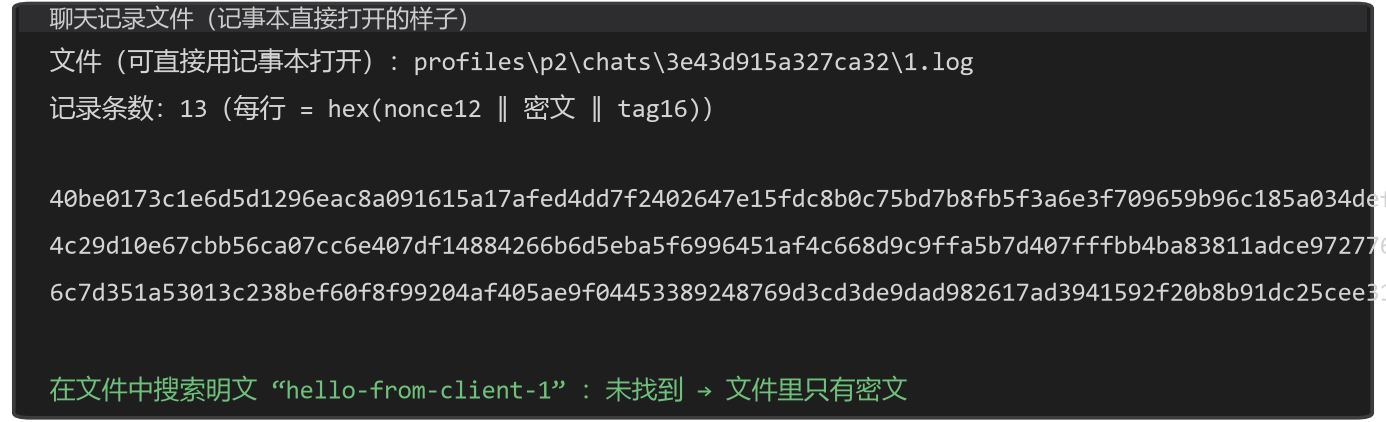
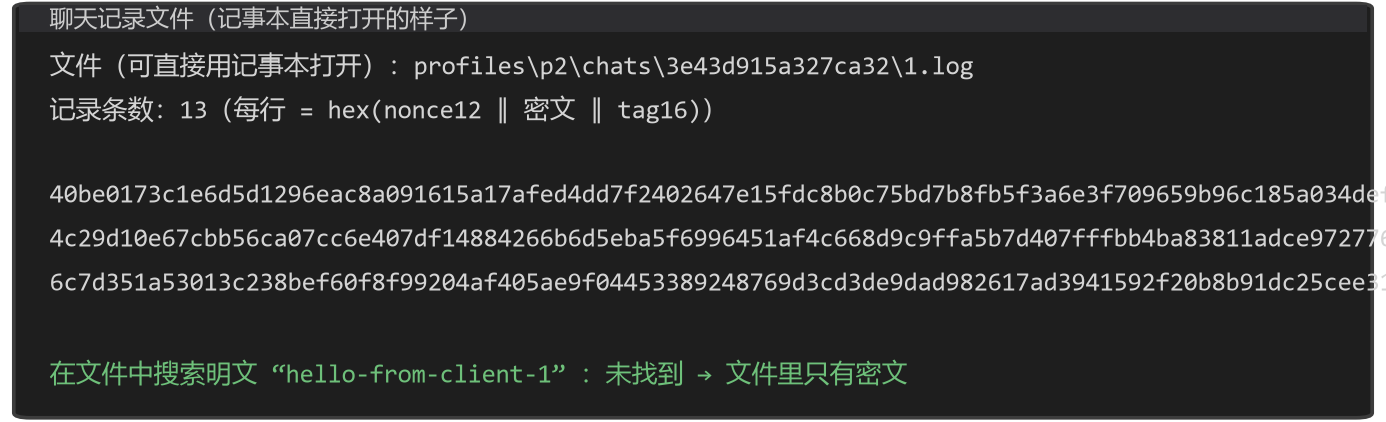
fig: 终端配图末行被裁切

diff --git a/Tools/make_figures.py b/Tools/make_figures.py
@@ -652,7 +652,7 @@ def text_figure(path, name, title, max_lines=None, fs=7.6, w=6.3):
     ax.add_patch(plt.Rectangle((1, 92.5), 98, 6.5, fc="#2d2d30", ec="none", zorder=2))
     ax.text(3.2, 95.7, title, fontsize=8.0, color="#cccccc", va="center", zorder=3,
             family=[CJK, MONO])
-    step = 89.5 / max(len(lines), 1)
+    step = 84.0 / max(len(lines), 1)
     for i, ln in enumerate(lines):
         color = "#d4d4d4"
         if "[OK]" in ln:
@@ -663,7 +663,7 @@ def text_figure(path, name, title, max_lines=None, fs=7.6, w=6.3):
             color = "#dcdcaa"
         elif "未找到" in ln:
             color = "#6ec07a"
-        ax.text(3.2, 89.0 - i * step, ln if ln else " ", fontsize=fs, color=color,
+        ax.text(3.2, 88.0 - i * step, ln if ln else " ", fontsize=fs, color=color,
                 va="top", ha="left", zorder=3, family=[MONO, CJK])
     save(fig, name)
 
